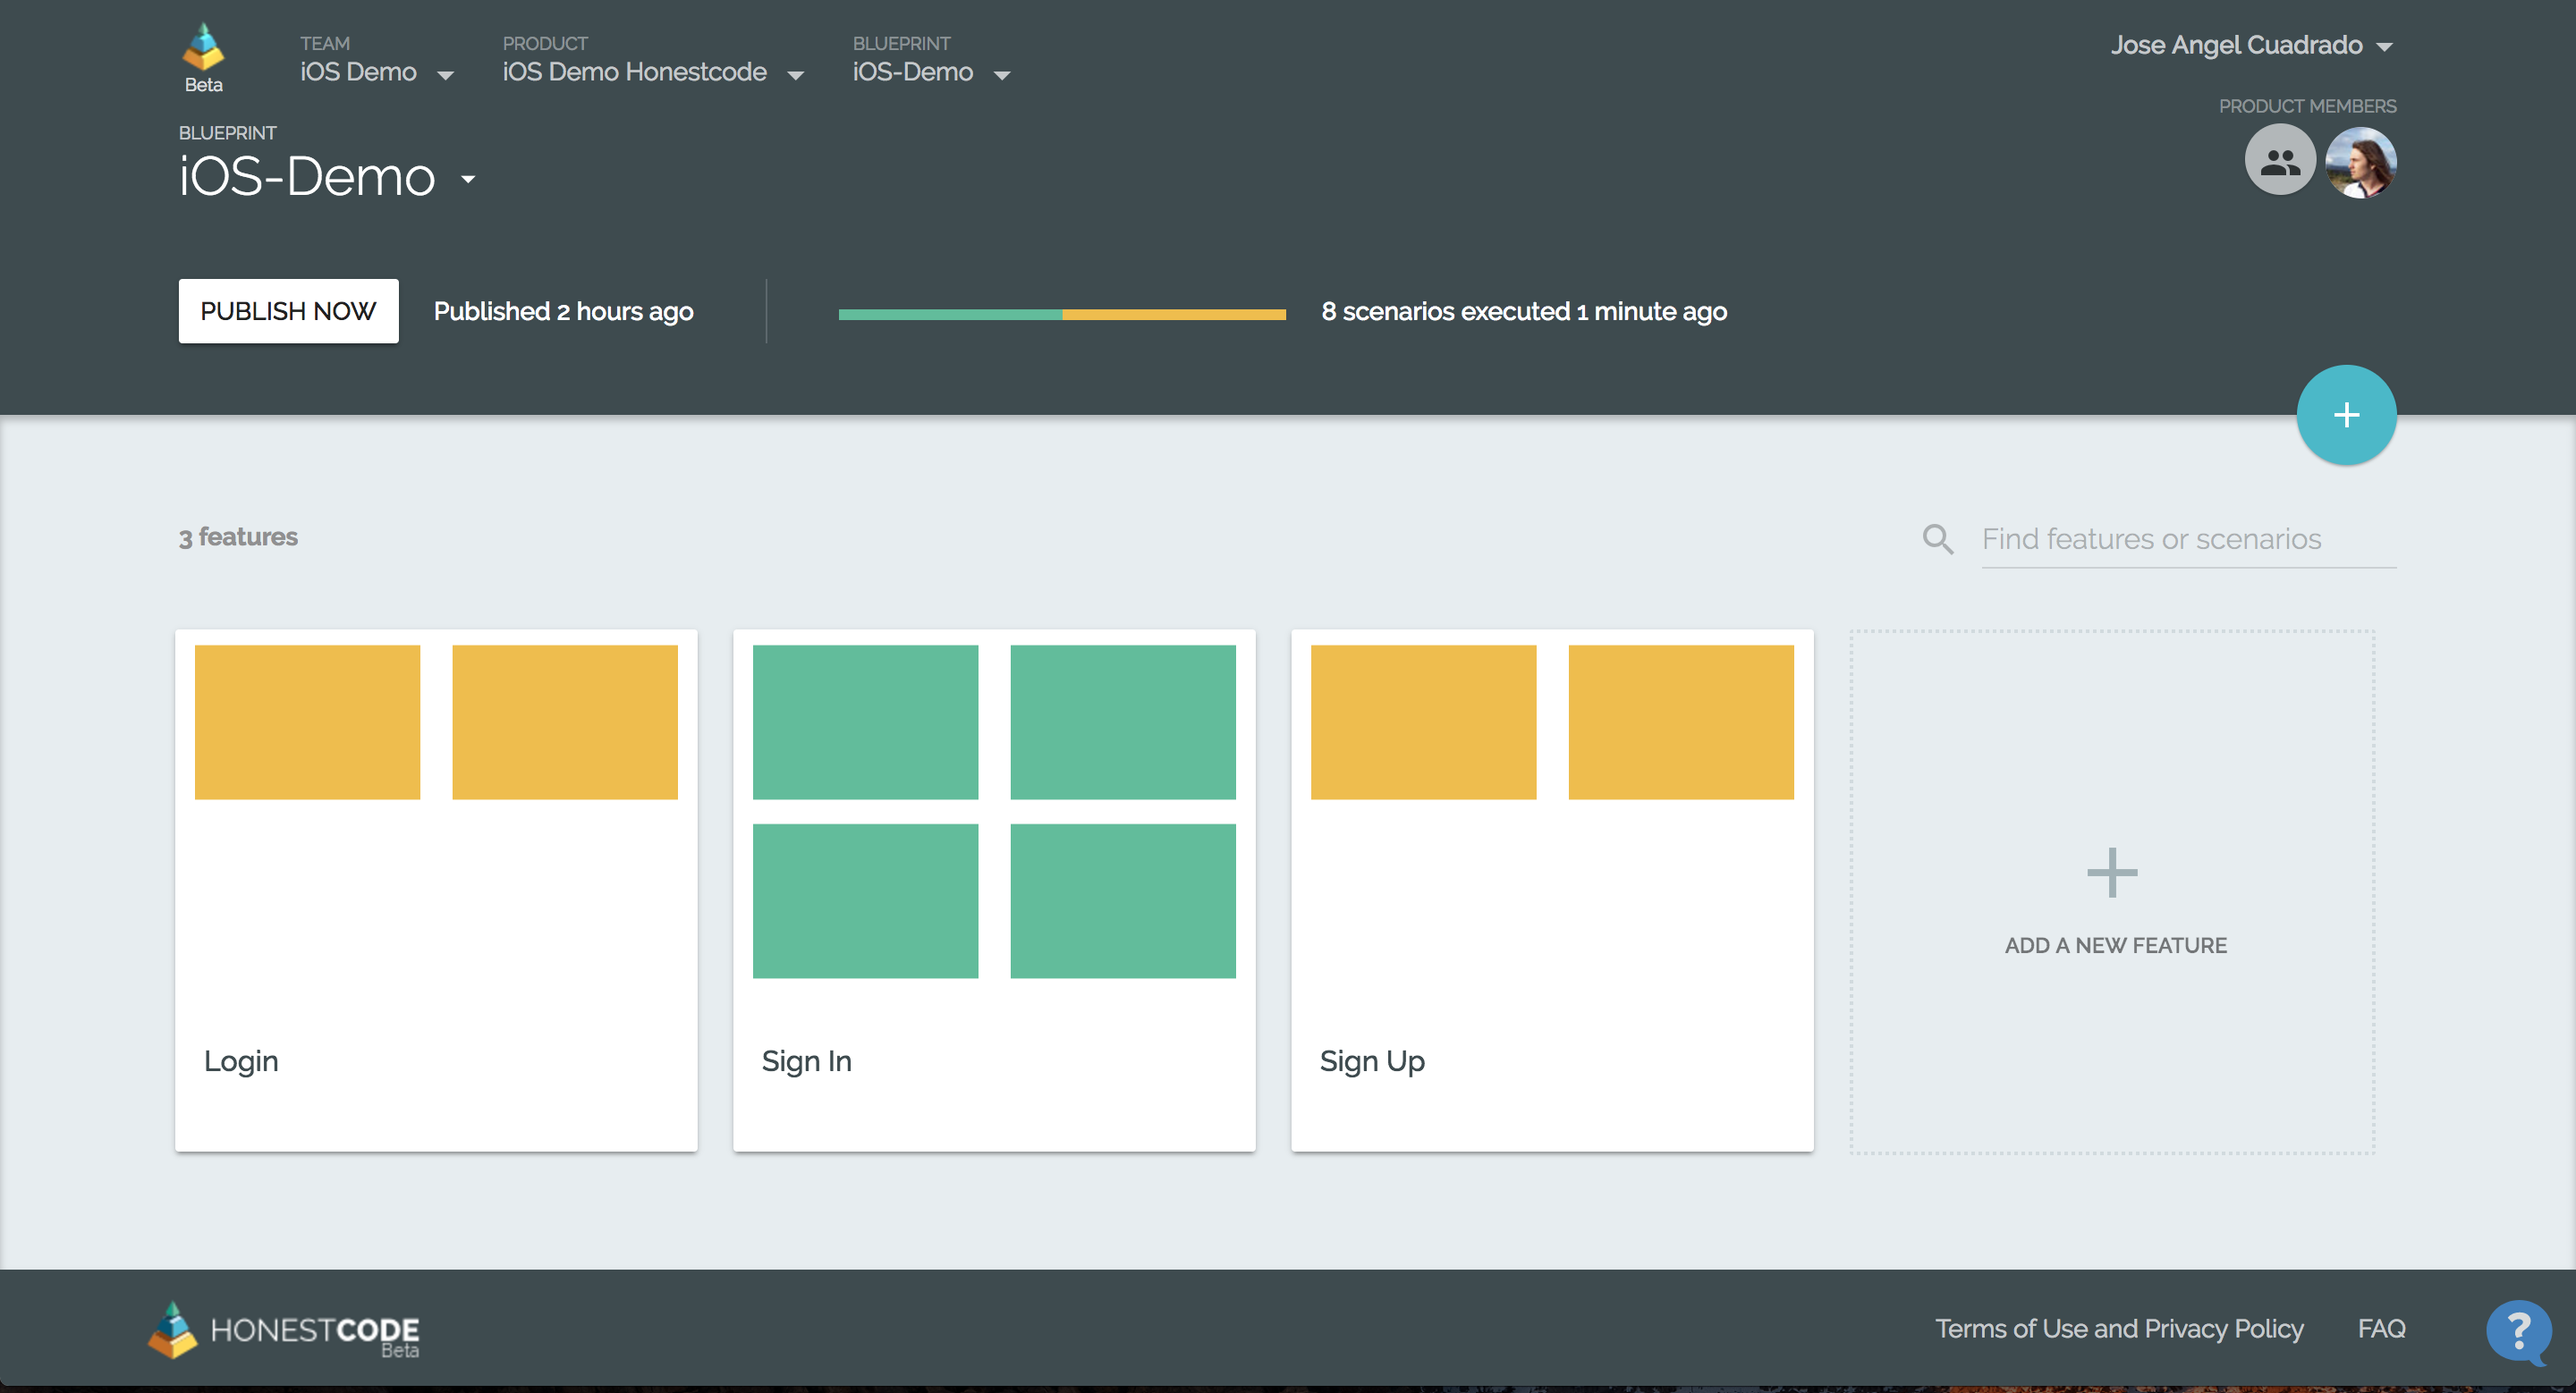
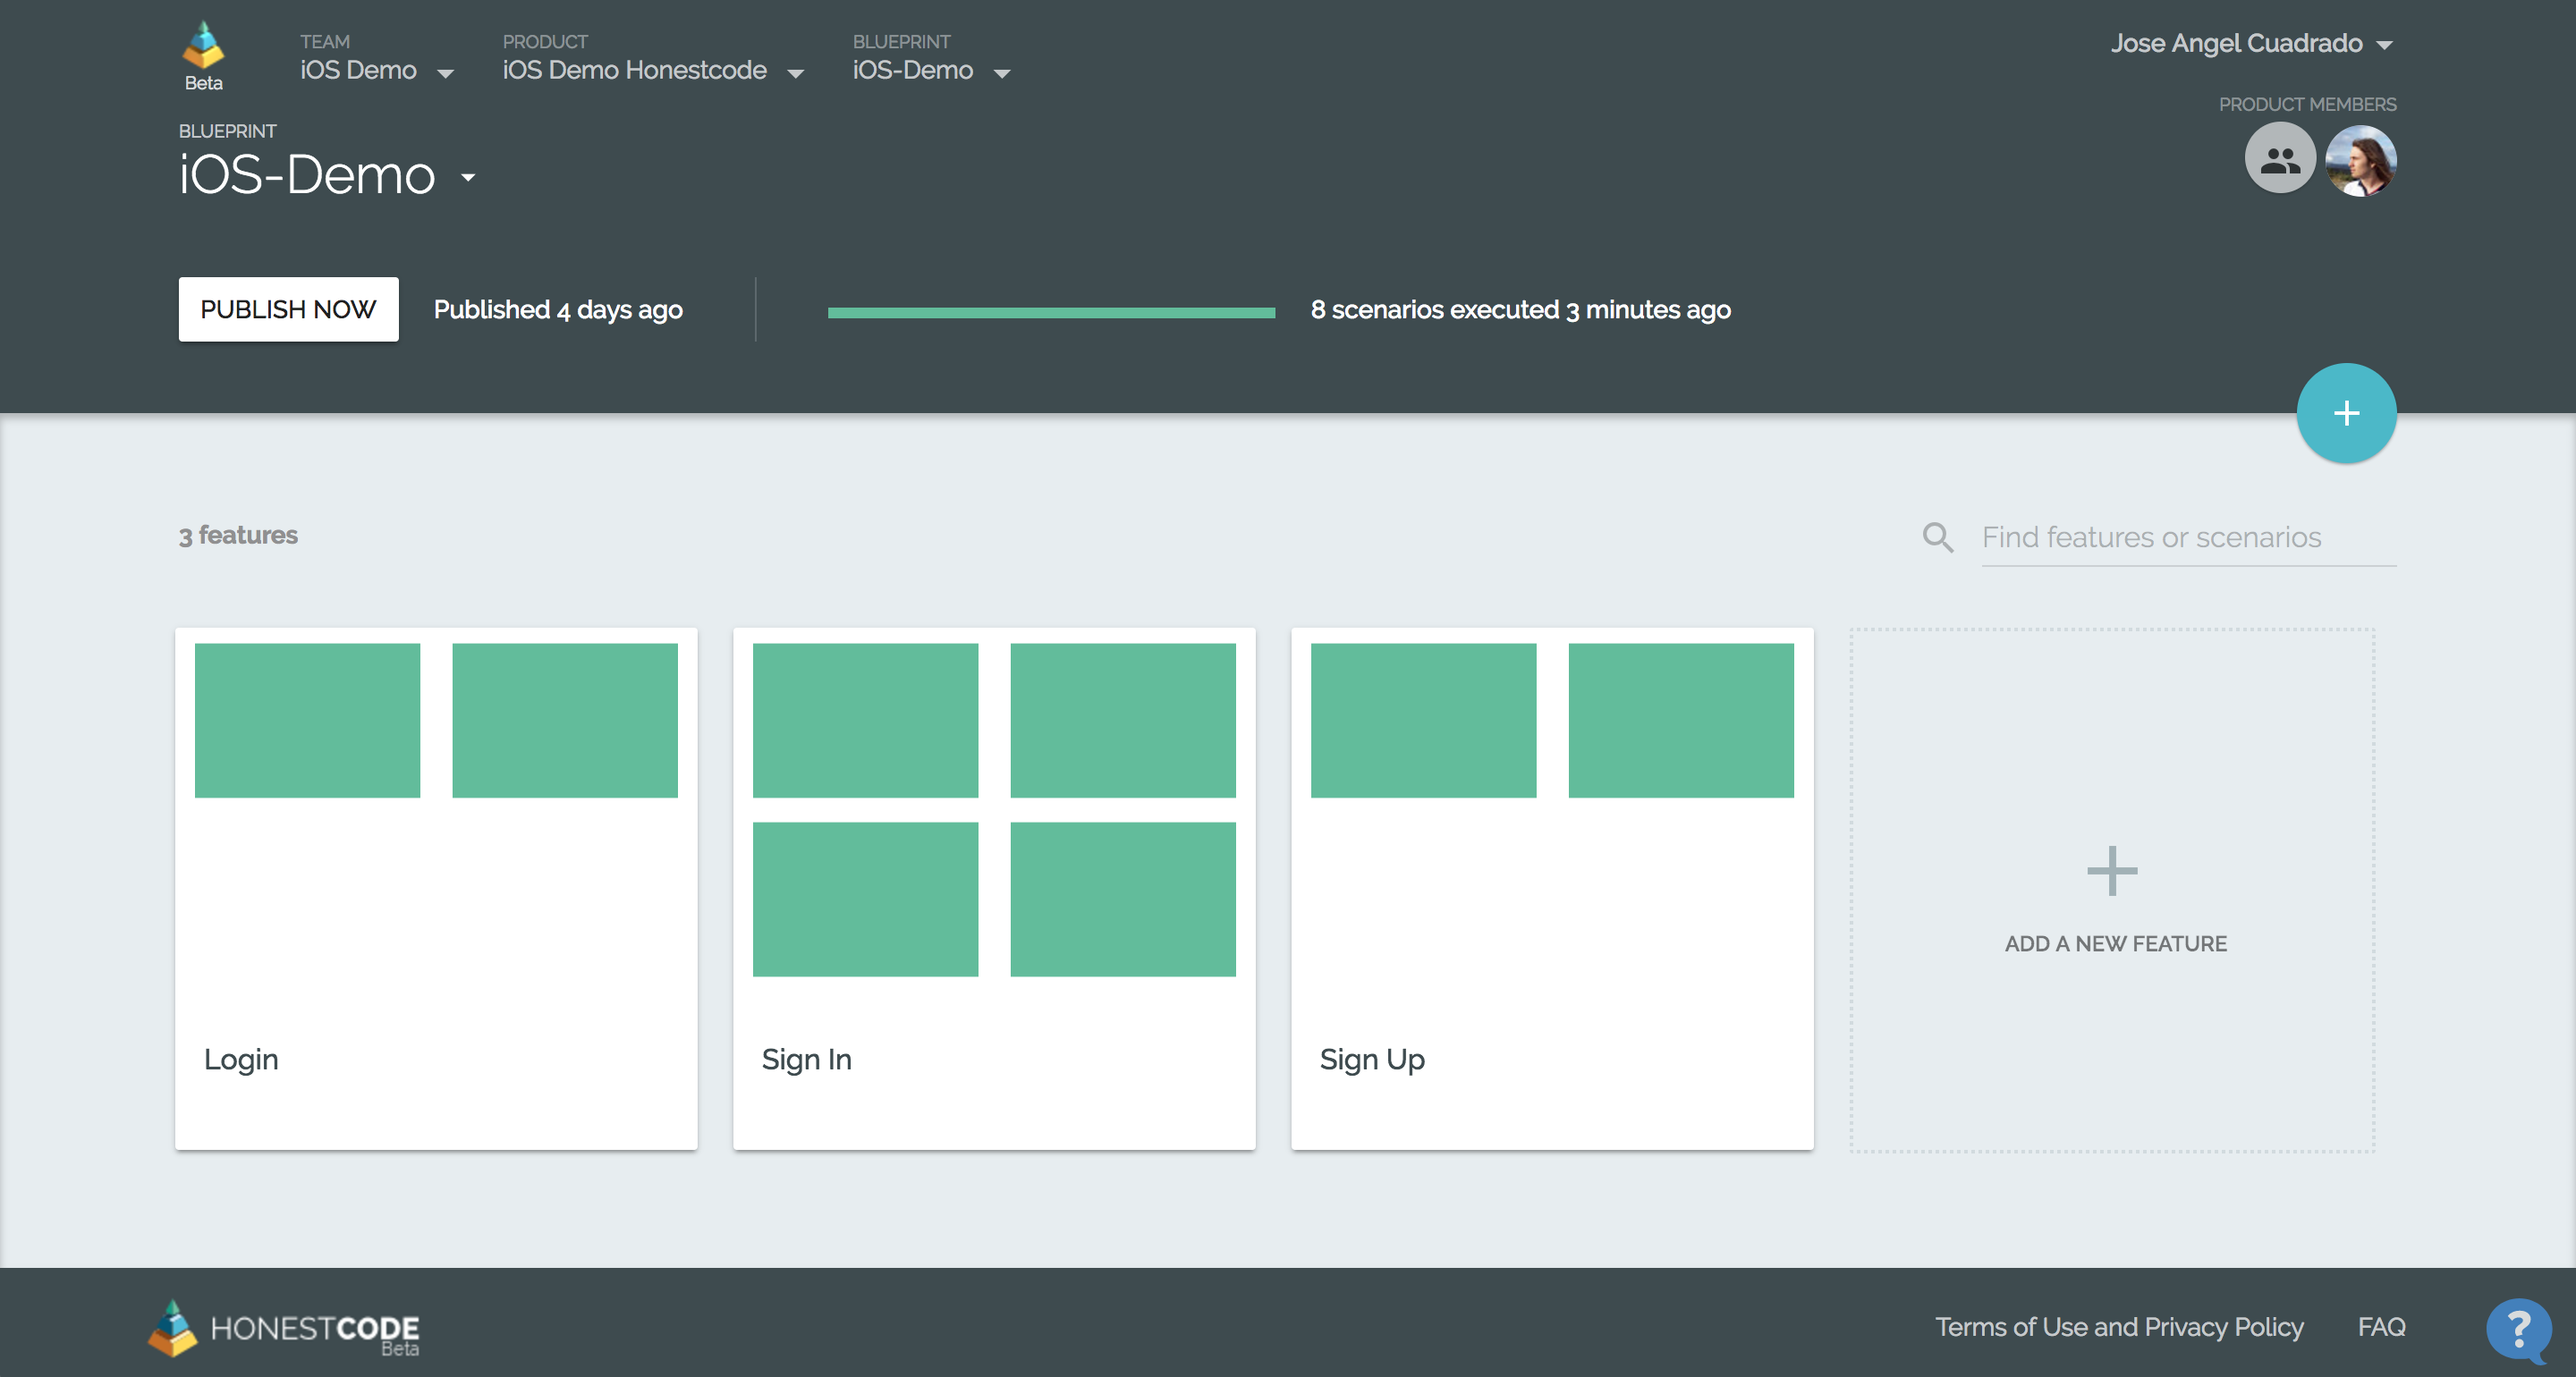
Updated readme

diff --git a/README.md b/README.md
@@ -103,7 +103,7 @@ This repository contains a basic iOS project connected to Honestcode services. T
 	}
 	```
 
-4. Once all tests are written, you can check the results with CMD+U or selecting which must be tested from "Test navigator" (firstly, you must test all test with CMD+U because there is a [known issue](https://github.com/Ahmed-Ali/Cucumberish#known-issues) with Cucumberish)
+4. Once all tests are written, you can check the results with CMD+U or selecting the test classes which must be tested from "Test navigator". Because a [known issue](https://github.com/Ahmed-Ali/Cucumberish#known-issues) of Cucumberish, if the developer doesn't test all tests cases, the rest of the scenarios will disappear, and don't appear until the developer tests all the cases with the command CMD+U.
 5. Finally, when the tests are completed, it is generated a report that must be uploaded to Honestcode platform. The developer can use the next commands to upload it (the commands can be used from terminal or through a script), where $1 is the project name, and $2 is the identifier of the blueprint to which the tests belong (visible in the blueprint configuration). 
 
 	```
@@ -128,8 +128,4 @@ In the next pictures, you can see the feature creation process through [Honestco
 
 Finally, after upload the results of the tests, you can see graphically the results in the different panels. This is an example of the results in the features panel:
 
-![Results](./images/results.png "Results of the tests in the features panel. There are 4 tests passed and 4 tests skipped")
-
-## Known issues
-
-For the integration process of Honestcode in an iOS project, we use Cucumberish as the best alternative to read Gherkin features and match the sentences with the tests coded. However, in this process, we detect a bug in the Cucumberish framework ([which has already been reported](https://github.com/Ahmed-Ali/Cucumberish/issues/66)). This bug doesn't allow create the final report if there is more than one feature file and stepper, although the features and steppers are correctly created and all tests passed. We are working in solve this issue until the Cucumberish creator solves the bug. Until this moment, there must be an unique feature file and stepper.
+![Results](./images/results.png "Results of the tests in the features panel. There are 8 tests passed")
